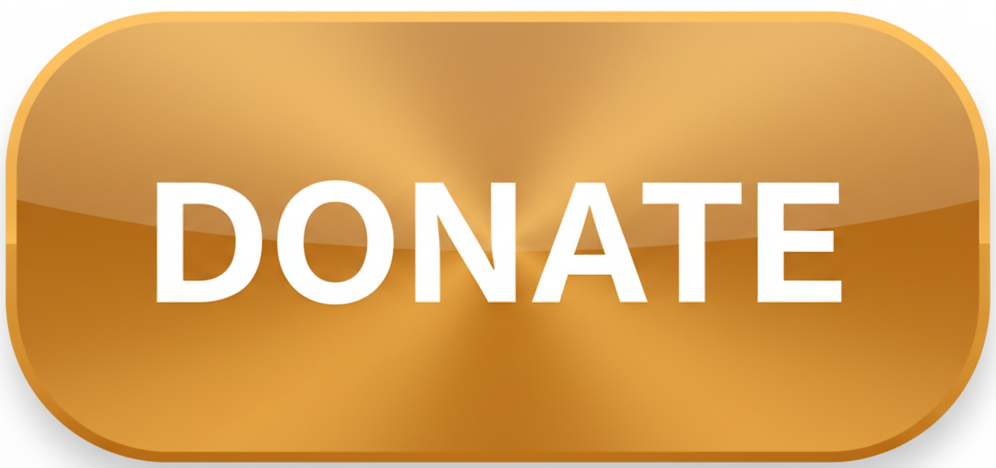
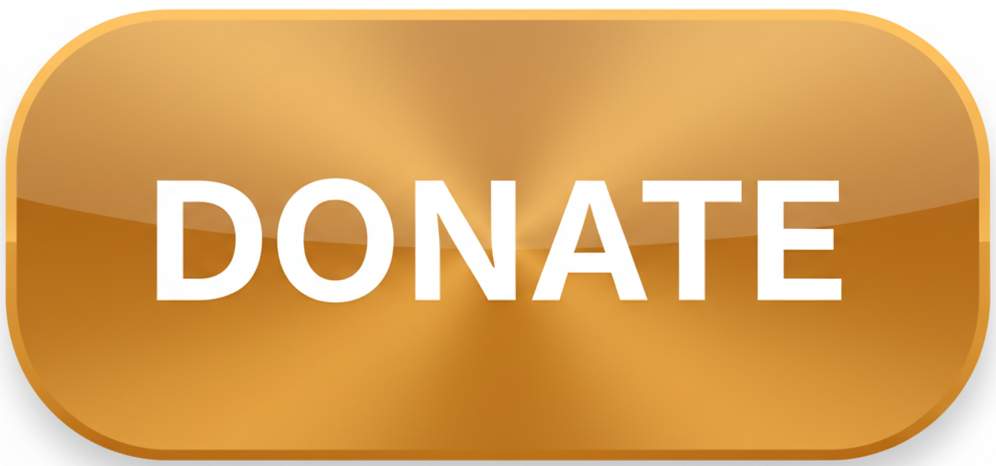
update donate

diff --git a/donate.html b/donate.html
@@ -6,7 +6,7 @@ permalink: /donate/
 
 <p>Thanks to our dedicated boosters, we’ve raised over $20,000 this year. This funding helps supply sports equipment, enhance school programs, and offer scholarships. Every donation counts.</p>
 
-<p>Checkout opens on Cheddar Up in a new tab. Cheddar Up does not offer a confirmed embed option, so these are outbound links rather than iframes.</p>
+<p>Checkout opens on Cheddar Up in a new tab. </p>
 
 <div class="cta-row">
   <a class="cta-button" href="https://timberline-booster.cheddarup.com" target="_blank" rel="noopener noreferrer">
